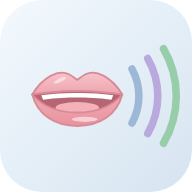
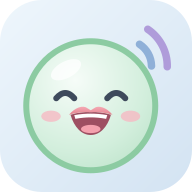
Add files via upload

Changed region(s): [[0.0938, 0.125, 0.9375, 0.9062]]

diff --git a/js/mascot.js b/js/mascot.js
@@ -1,4 +1,4 @@
-/* 마스코트 '입말이' — 민트 동그라미 + 작은 입술 + 머리 위 파스텔 소리 파동
+/* 마스코트 '입말이' — 앱 아이콘과 같은 얼굴 (민트 동그라미 + 아이콘의 입술 + 소리 파동 2줄)
  * 상태: idle(기본) · happy(기쁨) · oops(아쉬움) · think(생각) · party(축하)
  */
 const Mascot = (() => {
@@ -19,28 +19,43 @@ const Mascot = (() => {
     </g>`;
   }
 
+  /* 입 = 앱 아이콘의 입술 (아이콘 좌표 그대로 축소해서 사용 → 아이콘과 같은 얼굴) */
+  const LIP_UP = '#F5A9B4', LIP_LO = '#E5838F', LIP_IN = '#9E4F62', LIP_LINE = '#C9707F';
+  function lips(inner, s, dx) {
+    const k = s || 0.24, my = CY + 8;
+    return `<g transform="translate(${(CX - 242 * k + (dx || 0)).toFixed(2)},${(my - 300 * k).toFixed(2)}) scale(${k})">${inner}</g>`;
+  }
+  // 웃으며 벌린 입 (아이콘과 동일)
+  const OPEN = `<path d="M188 306 C206 300 226 298 242 299 C258 298 278 300 296 306 C286 340 266 360 242 360 C218 360 198 340 188 306 Z" fill="${LIP_IN}"/>
+    <path d="M198 307 C214 304 230 303 242 303 C254 303 270 304 286 307 L283 317 C268 314 254 313 242 313 C230 313 216 314 201 317 Z" fill="#FFFFFF"/>
+    <ellipse cx="242" cy="344" rx="26" ry="11" fill="#F4A1AE"/>
+    <path d="M184 306 C200 286 222 280 232 288 L242 294 L252 288 C262 280 284 286 300 306 C280 300 262 298 242 299 C222 298 204 300 184 306 Z" fill="${LIP_UP}"/>`;
+  // 다문 입 (미소)
+  const CLOSED = `<path d="M184 306 C204 312 222 314 242 314 C262 314 280 312 300 306 C290 336 268 348 242 348 C216 348 194 336 184 306 Z" fill="${LIP_LO}"/>
+    <path d="M184 306 C200 286 222 280 232 288 L242 294 L252 288 C262 280 284 286 300 306 C280 312 262 314 242 314 C222 314 204 312 184 306 Z" fill="${LIP_UP}"/>
+    <path d="M190 308 C214 316 270 316 294 308" fill="none" stroke="${LIP_LINE}" stroke-width="5" stroke-linecap="round"/>
+    <ellipse cx="256" cy="336" rx="16" ry="4" fill="#FFFFFF" opacity=".55"/>`;
+  // '오' 모양 (아쉬움)
+  const OH = `<ellipse cx="242" cy="320" rx="30" ry="34" fill="${LIP_UP}"/><ellipse cx="242" cy="322" rx="15" ry="19" fill="${LIP_IN}"/>
+    <ellipse cx="232" cy="296" rx="8" ry="3" fill="#FFFFFF" opacity=".6"/>`;
+
   function mouth(state) {
-    const my = CY + 10;
-    if (state === 'happy' || state === 'party') {
-      return `<path d="M${CX - 10},${my - 2} Q${CX},${my - 6.5} ${CX + 10},${my - 2} Q${CX + 7},${my + 10} ${CX},${my + 10} Q${CX - 7},${my + 10} ${CX - 10},${my - 2}Z" fill="#E88A98" stroke="#D97786" stroke-width="1.6"/>
-              <ellipse cx="${CX}" cy="${my + 5.6}" rx="4.4" ry="2.5" fill="#F7B3BD"/>`;
-    }
-    if (state === 'oops') return `<ellipse cx="${CX}" cy="${my + 1}" rx="4.8" ry="4" fill="#E88A98" stroke="#D97786" stroke-width="1.6"/>`;
-    if (state === 'think') return `<path d="M${CX - 6},${my} Q${CX - 3},${my - 3.5} ${CX},${my - 1} Q${CX + 3},${my - 3.5} ${CX + 6},${my} Q${CX},${my + 4.5} ${CX - 6},${my}Z" fill="#EE9AA7" stroke="#D97786" stroke-width="1.4" transform="translate(4 0)"/>`;
-    return `<path d="M${CX - 10},${my} Q${CX - 5},${my - 5.5} ${CX},${my - 1.6} Q${CX + 5},${my - 5.5} ${CX + 10},${my} Q${CX},${my + 7.5} ${CX - 10},${my}Z" fill="#EE9AA7" stroke="#D97786" stroke-width="1.5"/>`;
+    if (state === 'happy' || state === 'party') return lips(OPEN, 0.24);
+    if (state === 'oops') return lips(OH, 0.2);
+    if (state === 'think') return lips(CLOSED, 0.17, 4);
+    return lips(CLOSED, 0.22);
   }
 
   function svg(state, size) {
     const id = 'mi' + (++uid), w = size || 64;
     return `<svg class="mascot-svg" viewBox="0 0 120 112" width="${w}" height="${(w * 112 / 120).toFixed(0)}" aria-hidden="true">
-      <defs><linearGradient id="${id}" x1="0" y1="0" x2="0" y2="1"><stop offset="0" stop-color="#F2FBF5"/><stop offset="1" stop-color="#CDEBD7"/></linearGradient></defs>
-      <g class="m-wave" fill="none" stroke-linecap="round" stroke-width="4">
-        <path d="M76,24 A10,10 0 0 1 76,40" stroke="#9DB8D6"/>
-        <path d="M83,17 A17,17 0 0 1 83,47" stroke="#B9A9DC"/>
-        <path d="M90,10 A24,24 0 0 1 90,54" stroke="#97CDA8"/>
+      <defs><radialGradient id="${id}" cx=".38" cy=".3" r=".8"><stop offset="0" stop-color="#F6FCF8"/><stop offset=".7" stop-color="#D2EEDC"/><stop offset="1" stop-color="#BFE4CC"/></radialGradient></defs>
+      <g class="m-wave" fill="none" stroke-linecap="round" stroke-width="4.4">
+        <path d="M80,22 A15,15 0 0 1 87,35" stroke="#8FB0D8"/>
+        <path d="M85,12 A26,26 0 0 1 97,34" stroke="#AF9CDA"/>
       </g>
       <g class="m-body">
-        <circle cx="${CX}" cy="${CY}" r="${R}" fill="url(#${id})" stroke="#97CDA8" stroke-width="3"/>
+        <circle cx="${CX}" cy="${CY}" r="${R}" fill="url(#${id})" stroke="#8CCBA2" stroke-width="3.4"/>
         <ellipse cx="${CX - 17}" cy="${CY - 24}" rx="10" ry="5" fill="#fff" opacity=".65" transform="rotate(-25 ${CX - 17} ${CY - 24})"/>
         <ellipse cx="${CX - 22}" cy="${CY + 9}" rx="6" ry="3.6" fill="#F7B8C2" opacity=".85"/>
         <ellipse cx="${CX + 22}" cy="${CY + 9}" rx="6" ry="3.6" fill="#F7B8C2" opacity=".85"/>
